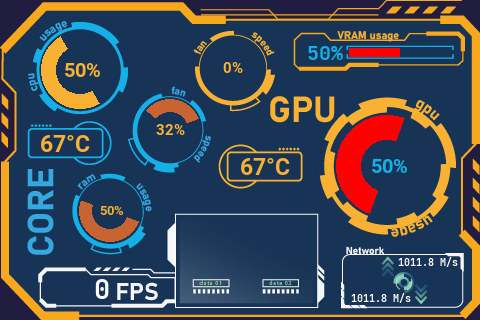
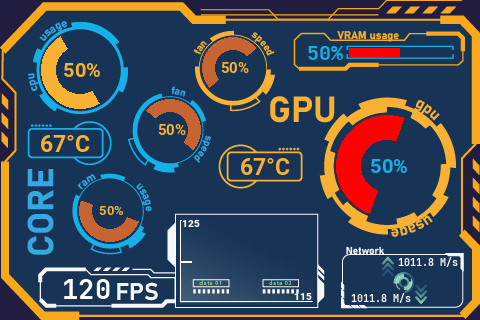
[GitHub Actions Bot] Update theme previews

diff --git a/res/themes/themes.md b/res/themes/themes.md
@@ -9,7 +9,7 @@
 [5" themes](#5-themes)
 
 ## 3.5" themes
-<table><td>3.5inchTheme2<img src="https://raw.githubusercontent.com/mathoudebine/turing-smart-screen-python/main/res/themes/3.5inchTheme2/preview.png" width="150"/></td><td>bash-dark-green<img src="https://raw.githubusercontent.com/mathoudebine/turing-smart-screen-python/main/res/themes/bash-dark-green/preview.png" width="150"/></td><td>bash-dark-green-gpu<img src="https://raw.githubusercontent.com/mathoudebine/turing-smart-screen-python/main/res/themes/bash-dark-green-gpu/preview.png" width="150"/></td><td>BigClock<img src="https://raw.githubusercontent.com/mathoudebine/turing-smart-screen-python/main/res/themes/BigClock/preview.png" width="150"/></td><td>CustomDataExample<img src="https://raw.githubusercontent.com/mathoudebine/turing-smart-screen-python/main/res/themes/CustomDataExample/preview.png" width="150"/></td></table><table><td>Cyberpunk<img src="https://raw.githubusercontent.com/mathoudebine/turing-smart-screen-python/main/res/themes/Cyberpunk/preview.png" width="150"/></td><td>Cyberpunk-net<img src="https://raw.githubusercontent.com/mathoudebine/turing-smart-screen-python/main/res/themes/Cyberpunk-net/preview.png" width="150"/></td><td>Landscape6Grid<img src="https://raw.githubusercontent.com/mathoudebine/turing-smart-screen-python/main/res/themes/Landscape6Grid/preview.png" width="150"/></td><td>LandscapeEarth<img src="https://raw.githubusercontent.com/mathoudebine/turing-smart-screen-python/main/res/themes/LandscapeEarth/preview.png" width="150"/></td><td>LandscapeMagicBlue<img src="https://raw.githubusercontent.com/mathoudebine/turing-smart-screen-python/main/res/themes/LandscapeMagicBlue/preview.png" width="150"/></td></table><table><td>Terminal<img src="https://raw.githubusercontent.com/mathoudebine/turing-smart-screen-python/main/res/themes/Terminal/preview.png" width="150"/></td></table>
+<table><td>3.5inchTheme2<img src="https://raw.githubusercontent.com/mathoudebine/turing-smart-screen-python/main/res/themes/3.5inchTheme2/preview.png" width="150"/></td><td>bash-dark-green<img src="https://raw.githubusercontent.com/mathoudebine/turing-smart-screen-python/main/res/themes/bash-dark-green/preview.png" width="150"/></td><td>bash-dark-green-gpu<img src="https://raw.githubusercontent.com/mathoudebine/turing-smart-screen-python/main/res/themes/bash-dark-green-gpu/preview.png" width="150"/></td><td>BigClock<img src="https://raw.githubusercontent.com/mathoudebine/turing-smart-screen-python/main/res/themes/BigClock/preview.png" width="150"/></td><td>CustomDataExample<img src="https://raw.githubusercontent.com/mathoudebine/turing-smart-screen-python/main/res/themes/CustomDataExample/preview.png" width="150"/></td></table><table><td>Cyberdeck<img src="https://raw.githubusercontent.com/mathoudebine/turing-smart-screen-python/main/res/themes/Cyberdeck/preview.png" width="150"/></td><td>Cyberpunk<img src="https://raw.githubusercontent.com/mathoudebine/turing-smart-screen-python/main/res/themes/Cyberpunk/preview.png" width="150"/></td><td>Cyberpunk-net<img src="https://raw.githubusercontent.com/mathoudebine/turing-smart-screen-python/main/res/themes/Cyberpunk-net/preview.png" width="150"/></td><td>Landscape6Grid<img src="https://raw.githubusercontent.com/mathoudebine/turing-smart-screen-python/main/res/themes/Landscape6Grid/preview.png" width="150"/></td><td>LandscapeEarth<img src="https://raw.githubusercontent.com/mathoudebine/turing-smart-screen-python/main/res/themes/LandscapeEarth/preview.png" width="150"/></td></table><table><td>LandscapeMagicBlue<img src="https://raw.githubusercontent.com/mathoudebine/turing-smart-screen-python/main/res/themes/LandscapeMagicBlue/preview.png" width="150"/></td><td>Terminal<img src="https://raw.githubusercontent.com/mathoudebine/turing-smart-screen-python/main/res/themes/Terminal/preview.png" width="150"/></td></table>
 
 ## 5" themes
-<table><td>5inchTheme2<img src="https://raw.githubusercontent.com/mathoudebine/turing-smart-screen-python/main/res/themes/5inchTheme2/preview.png" width="150"/></td><td>5inchTheme2Radial<img src="https://raw.githubusercontent.com/mathoudebine/turing-smart-screen-python/main/res/themes/5inchTheme2Radial/preview.png" width="150"/></td><td>CyanTheme<img src="https://raw.githubusercontent.com/mathoudebine/turing-smart-screen-python/main/res/themes/CyanTheme/preview.png" width="150"/></td><td>DragonBall5inch<img src="https://raw.githubusercontent.com/mathoudebine/turing-smart-screen-python/main/res/themes/DragonBall5inch/preview.png" width="150"/></td><td>Landscape15Grid<img src="https://raw.githubusercontent.com/mathoudebine/turing-smart-screen-python/main/res/themes/Landscape15Grid/preview.png" width="150"/></td></table><table><td>NZXT_B<img src="https://raw.githubusercontent.com/mathoudebine/turing-smart-screen-python/main/res/themes/NZXT_B/preview.png" width="150"/></td><td>NZXT_BLUR<img src="https://raw.githubusercontent.com/mathoudebine/turing-smart-screen-python/main/res/themes/NZXT_BLUR/preview.png" width="150"/></td><td>NZXT_C<img src="https://raw.githubusercontent.com/mathoudebine/turing-smart-screen-python/main/res/themes/NZXT_C/preview.png" width="150"/></td><td>NZXT_color<img src="https://raw.githubusercontent.com/mathoudebine/turing-smart-screen-python/main/res/themes/NZXT_color/preview.png" width="150"/></td><td>NZXT_dynamic<img src="https://raw.githubusercontent.com/mathoudebine/turing-smart-screen-python/main/res/themes/NZXT_dynamic/preview.png" width="150"/></td></table><table><td>PurpleTheme<img src="https://raw.githubusercontent.com/mathoudebine/turing-smart-screen-python/main/res/themes/PurpleTheme/preview.png" width="150"/></td></table>
+<table><td>5inchTheme2<img src="https://raw.githubusercontent.com/mathoudebine/turing-smart-screen-python/main/res/themes/5inchTheme2/preview.png" width="150"/></td><td>5inchTheme2Radial<img src="https://raw.githubusercontent.com/mathoudebine/turing-smart-screen-python/main/res/themes/5inchTheme2Radial/preview.png" width="150"/></td><td>CyanTheme<img src="https://raw.githubusercontent.com/mathoudebine/turing-smart-screen-python/main/res/themes/CyanTheme/preview.png" width="150"/></td><td>DragonBall5inch<img src="https://raw.githubusercontent.com/mathoudebine/turing-smart-screen-python/main/res/themes/DragonBall5inch/preview.png" width="150"/></td><td>Landscape15Grid<img src="https://raw.githubusercontent.com/mathoudebine/turing-smart-screen-python/main/res/themes/Landscape15Grid/preview.png" width="150"/></td></table><table><td>NZXT_B<img src="https://raw.githubusercontent.com/mathoudebine/turing-smart-screen-python/main/res/themes/NZXT_B/preview.png" width="150"/></td><td>NZXT_BLUR<img src="https://raw.githubusercontent.com/mathoudebine/turing-smart-screen-python/main/res/themes/NZXT_BLUR/preview.png" width="150"/></td><td>NZXT_C<img src="https://raw.githubusercontent.com/mathoudebine/turing-smart-screen-python/main/res/themes/NZXT_C/preview.png" width="150"/></td><td>NZXT_color<img src="https://raw.githubusercontent.com/mathoudebine/turing-smart-screen-python/main/res/themes/NZXT_color/preview.png" width="150"/></td><td>NZXT_dynamic<img src="https://raw.githubusercontent.com/mathoudebine/turing-smart-screen-python/main/res/themes/NZXT_dynamic/preview.png" width="150"/></td></table><table><td>PurpleTheme<img src="https://raw.githubusercontent.com/mathoudebine/turing-smart-screen-python/main/res/themes/PurpleTheme/preview.png" width="150"/></td><td>TaskManager5inch<img src="https://raw.githubusercontent.com/mathoudebine/turing-smart-screen-python/main/res/themes/TaskManager5inch/preview.png" width="150"/></td></table>
